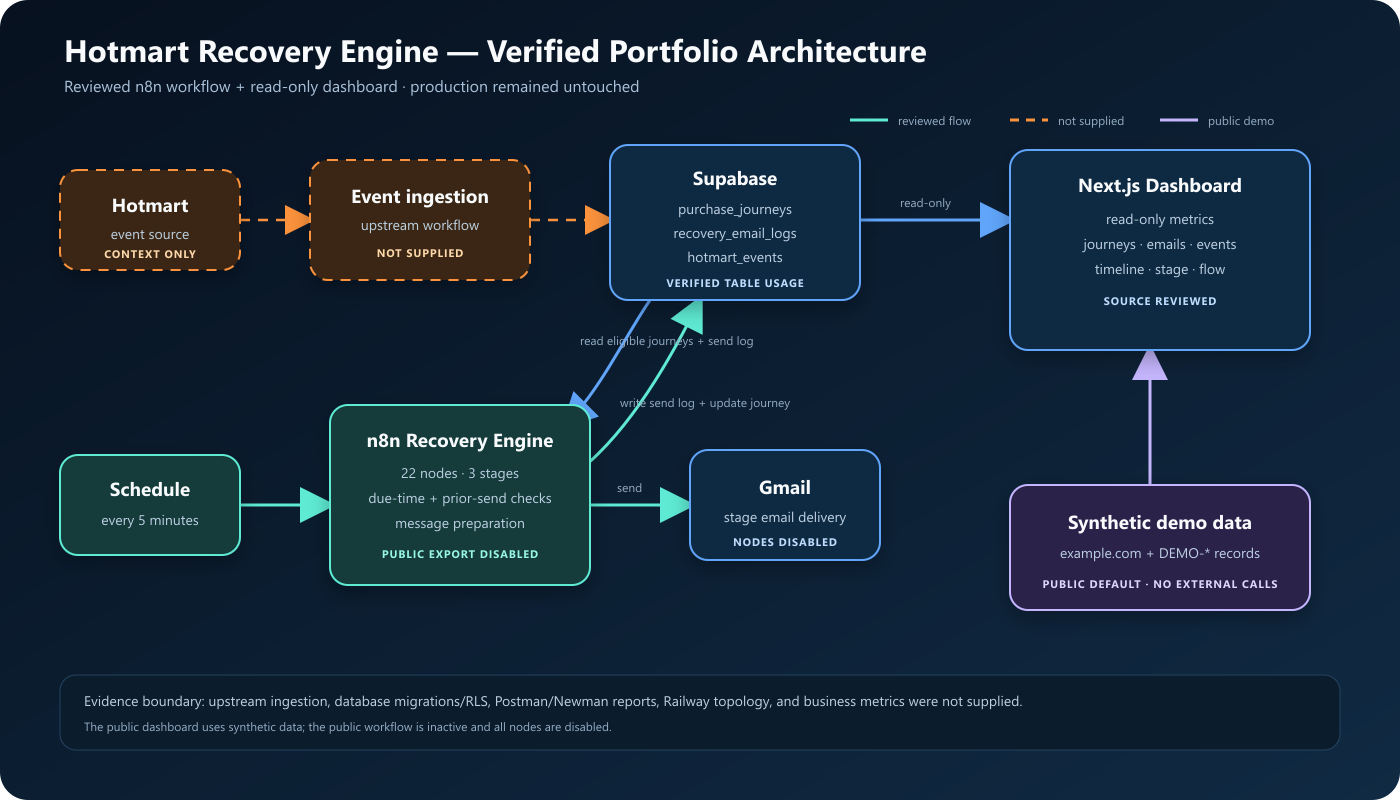
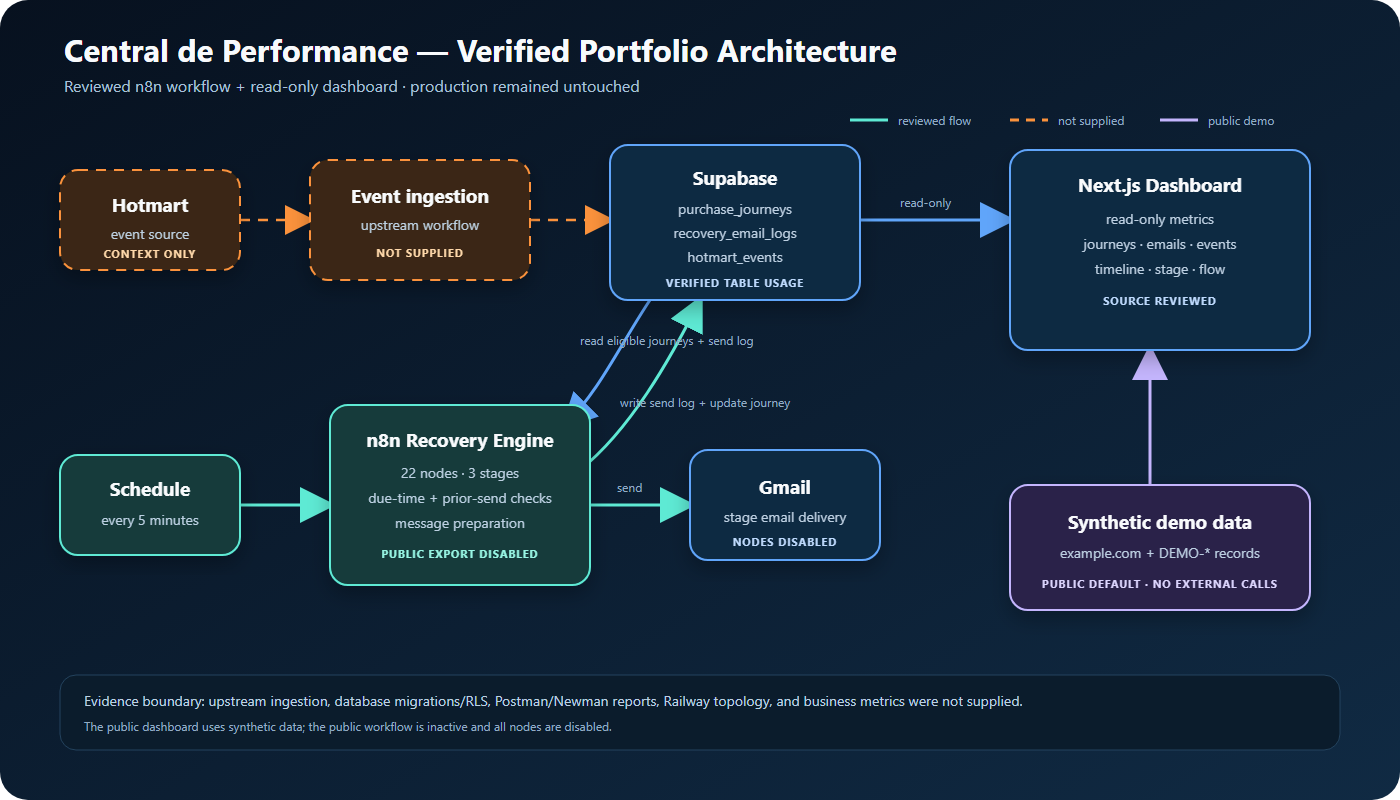
feat: rename dashboard to Central de Performance

diff --git a/dashboard/components/charts.tsx b/dashboard/components/charts.tsx
@@ -45,6 +45,7 @@ export function RevenueLineChart({
             stroke="currentColor"
             strokeWidth={3}
             dot={false}
+            isAnimationActive={false}
           />
         </LineChart>
       </ResponsiveContainer>
@@ -69,7 +70,12 @@ export function StepBarChart({
           <XAxis dataKey="step" tick={{ fontSize: 12 }} />
           <YAxis allowDecimals={false} tick={{ fontSize: 12 }} />
           <Tooltip />
-          <Bar dataKey="recovered" fill="currentColor" radius={[8, 8, 0, 0]} />
+          <Bar
+            dataKey="recovered"
+            fill="currentColor"
+            radius={[8, 8, 0, 0]}
+            isAnimationActive={false}
+          />
         </BarChart>
       </ResponsiveContainer>
     </div>

diff --git a/dashboard/app/layout.tsx b/dashboard/app/layout.tsx
@@ -2,8 +2,9 @@ import type { Metadata } from "next";
 import "./globals.css";
 
 export const metadata: Metadata = {
-  title: "Hotmart Recovery — Portfolio Demo",
-  description: "Demonstração pública com dados sintéticos de um dashboard de recuperação Hotmart",
+  title: "Central de Performance — Demo de Portfólio",
+  description:
+    "Demonstração pública com dados sintéticos de recuperação de compras, receita e eventos Hotmart",
 };
 
 export default function RootLayout({

diff --git a/dashboard/app/dashboard/page.tsx b/dashboard/app/dashboard/page.tsx
@@ -28,7 +28,7 @@ export default async function DashboardPage({
     <>
       <PageHeader
         eyebrow="Visão geral"
-        title="Recuperação Hotmart"
+        title="Central de Performance"
         description="Métricas calculadas somente a partir de purchase_journeys e recovery_email_logs. Nenhuma taxa de abertura ou clique é estimada."
       >
         <PeriodFilter current={period} basePath="/dashboard" />

diff --git a/dashboard/app/login/page.tsx b/dashboard/app/login/page.tsx
@@ -63,7 +63,9 @@ function LoginForm() {
             <LockKeyhole size={22} />
           </div>
           <div>
-            <p className="text-sm font-medium text-indigo-600">HOTMART RECOVERY</p>
+            <p className="text-sm font-medium text-indigo-600">
+              CENTRAL DE PERFORMANCE
+            </p>
             <h1 className="text-2xl font-semibold">Entrar no painel</h1>
           </div>
         </div>

diff --git a/dashboard/components/sidebar.tsx b/dashboard/components/sidebar.tsx
@@ -30,7 +30,7 @@ export function Sidebar({
             <ShoppingBag size={20} />
           </div>
           <div>
-            <div className="text-sm font-semibold">Hotmart Recovery</div>
+            <div className="text-sm font-semibold">Central de Performance</div>
             <div className="text-xs text-slate-400">Dashboard</div>
           </div>
         </Link>

diff --git a/docs/DEMO_SCRIPT.md b/docs/DEMO_SCRIPT.md
@@ -8,7 +8,7 @@ A demo mais segura mostra o dashboard sintético e o workflow n8n desativado. El
 
 | Tempo | Visual | Narração |
 |---:|---|---|
-| 0–8s | Título e diagrama | “Eu construí um motor automatizado de recuperação de compras com n8n, Supabase, Gmail e um dashboard em Next.js.” |
+| 0–8s | Título e diagrama | “Eu construí a Central de Performance, um sistema automatizado de recuperação de compras com n8n, Supabase, Gmail e um dashboard em Next.js.” |
 | 8–22s | Visão geral do workflow n8n, sem executar | “A cada cinco minutos, o workflow procura jornadas elegíveis e verifica se chegou o momento da próxima ação.” |
 | 22–36s | Mostrar o switch e os três ramos | “O sistema escolhe uma de três etapas e, antes do envio, procura um registro com a mesma jornada, fluxo e etapa para evitar repetição.” |
 | 36–47s | Mostrar nodes de preparação, Gmail e atualização | “A mensagem muda conforme o status da compra. Depois, o envio é registrado e a jornada avança para a próxima etapa.” |
@@ -20,7 +20,7 @@ A demo mais segura mostra o dashboard sintético e o workflow n8n desativado. El
 
 | Time | Visual | Voice-over |
 |---:|---|---|
-| 0–8s | Title and architecture | “I built an automated purchase-recovery engine with n8n, Supabase, Gmail, and a Next.js dashboard.” |
+| 0–8s | Title and architecture | “I built Central de Performance, an automated purchase-recovery system with n8n, Supabase, Gmail, and a Next.js dashboard.” |
 | 8–22s | Full disabled n8n workflow | “Every five minutes, the workflow looks for eligible journeys and checks whether the next action is due.” |
 | 22–36s | Switch plus three branches | “It selects one of three stages and checks the journey, flow, and stage log before sending to prevent a repeated delivery.” |
 | 36–47s | Message, Gmail, and update nodes | “The message changes with the purchase state. The send is recorded, and the journey advances to its next step.” |

diff --git a/docs/LINKEDIN_CONTENT.md b/docs/LINKEDIN_CONTENT.md
@@ -2,7 +2,7 @@
 
 ## Post de lançamento — Português
 
-**Transformei um workflow complexo de recuperação Hotmart em um case público sem tocar no sistema em execução.**
+**Transformei um workflow complexo de recuperação Hotmart na Central de Performance, um case público sem tocar no sistema em execução.**
 
 O sistema possui 22 nodes no n8n e trabalha em três etapas.
 
@@ -27,7 +27,7 @@ Código e case completo: **https://github.com/igorMV0807/hotmart-automation-port
 
 ## Launch post — English
 
-**I turned a complex Hotmart recovery workflow into a public engineering case without touching the running system.**
+**I turned a complex recovery workflow for Hotmart purchases into Central de Performance, a public engineering case built without touching the running system.**
 
 The n8n workflow contains 22 nodes and a three-stage sequence.
 
@@ -59,7 +59,7 @@ Code and full case: **https://github.com/igorMV0807/hotmart-automation-portfolio
 | 3 | “Por que meu dashboard não mostra CTR” | Tela de emails + explicação de métricas não registradas |
 | 4 | “Como transformei produção em um case público seguro” | Comparação estrutural sem mostrar os arquivos originais |
 | 5 | “Um dashboard somente leitura para investigar eventos” | Tela sintética de eventos e erros |
-| 6 | “Arquitetura completa do motor de recuperação” | Diagrama revisado |
+| 6 | “Arquitetura completa da Central de Performance” | Diagrama revisado |
 
 ## Regras de publicação
 

diff --git a/README.pt-BR.md b/README.pt-BR.md
@@ -1,8 +1,8 @@
-# Motor de Recuperação Hotmart — Edição de Portfólio
+# Central de Performance — Edição de Portfólio
 
 Português (Brasil) · [English](README.md)
 
-> Versão isolada e segura para publicação de um sistema automatizado de recuperação de compras. O projeto em execução não foi editado, reiniciado, republicado, consultado nem conectado durante a preparação deste repositório.
+> Versão isolada e segura para publicação da Central de Performance, um sistema automatizado de recuperação de compras e visibilidade operacional integrado aos eventos da Hotmart. O projeto em execução não foi editado, reiniciado, republicado, consultado nem conectado durante a preparação deste repositório.
 
 ## O que este projeto demonstra
 

diff --git a/README.md b/README.md
@@ -1,8 +1,8 @@
-# Hotmart Recovery Engine — Portfolio Edition
+# Central de Performance — Portfolio Edition
 
 [Português (Brasil)](README.pt-BR.md) · English
 
-> A publication-safe, isolated edition of an automated purchase-recovery system. The live project was not edited, restarted, redeployed, queried, or connected to while this repository was prepared.
+> A publication-safe, isolated edition of Central de Performance, an automated purchase-recovery and operational-visibility system integrated with Hotmart events. The live project was not edited, restarted, redeployed, queried, or connected to while this repository was prepared.
 
 ## What this project demonstrates
 

diff --git a/docs/PORTFOLIO_CASE.md b/docs/PORTFOLIO_CASE.md
@@ -2,7 +2,7 @@
 
 ## English version
 
-### Hotmart Recovery Engine
+### Central de Performance
 
 **A three-stage purchase-recovery workflow with duplicate-send checks, state tracking, and a read-only observability dashboard.**
 
@@ -39,7 +39,7 @@ Building automation that can be explained and observed is as important as buildi
 
 ## Versão em português
 
-### Motor de Recuperação Hotmart
+### Central de Performance
 
 **Workflow de recuperação de compras em três etapas, com proteção contra repetição de envio, controle de estado e dashboard de observabilidade.**
 

diff --git a/dashboard/README.md b/dashboard/README.md
@@ -1,6 +1,6 @@
-# Hotmart Recovery Dashboard — Synthetic Portfolio Demo
+# Central de Performance — Synthetic Portfolio Demo
 
-This Next.js dashboard is the public companion to the sanitized n8n workflow. It starts in a synthetic, disconnected mode and does not require Supabase, Gmail, Hotmart, or any other external account.
+Central de Performance is the public Next.js companion to the sanitized n8n workflow. It starts in a synthetic, disconnected mode and does not require Supabase, Gmail, Hotmart, or any other external account.
 
 ## Safe default
 
